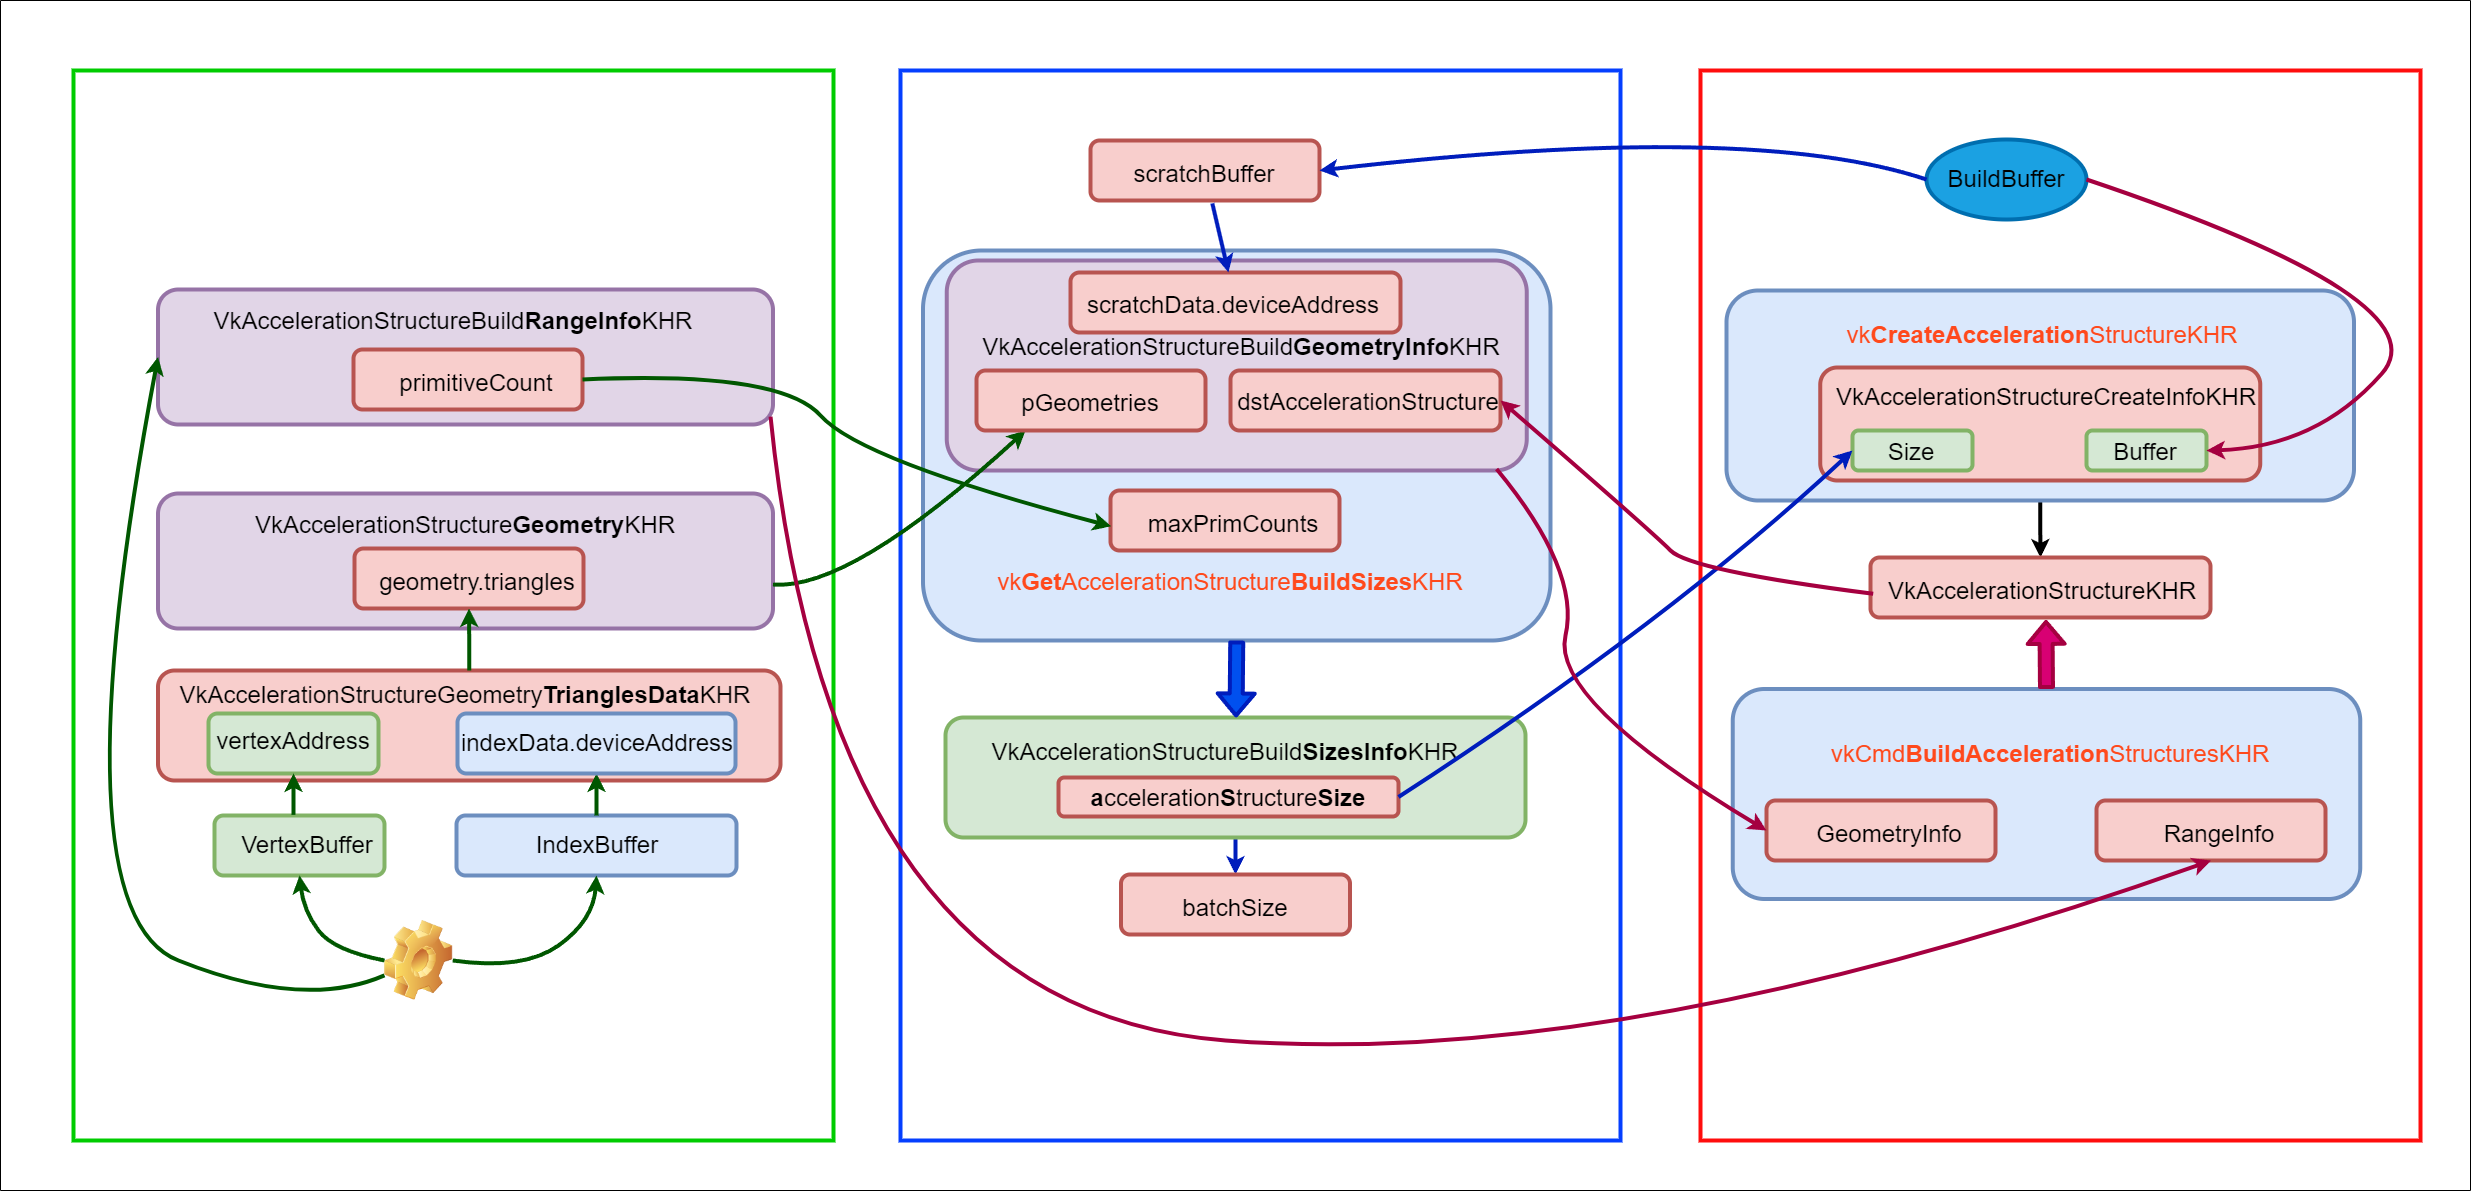
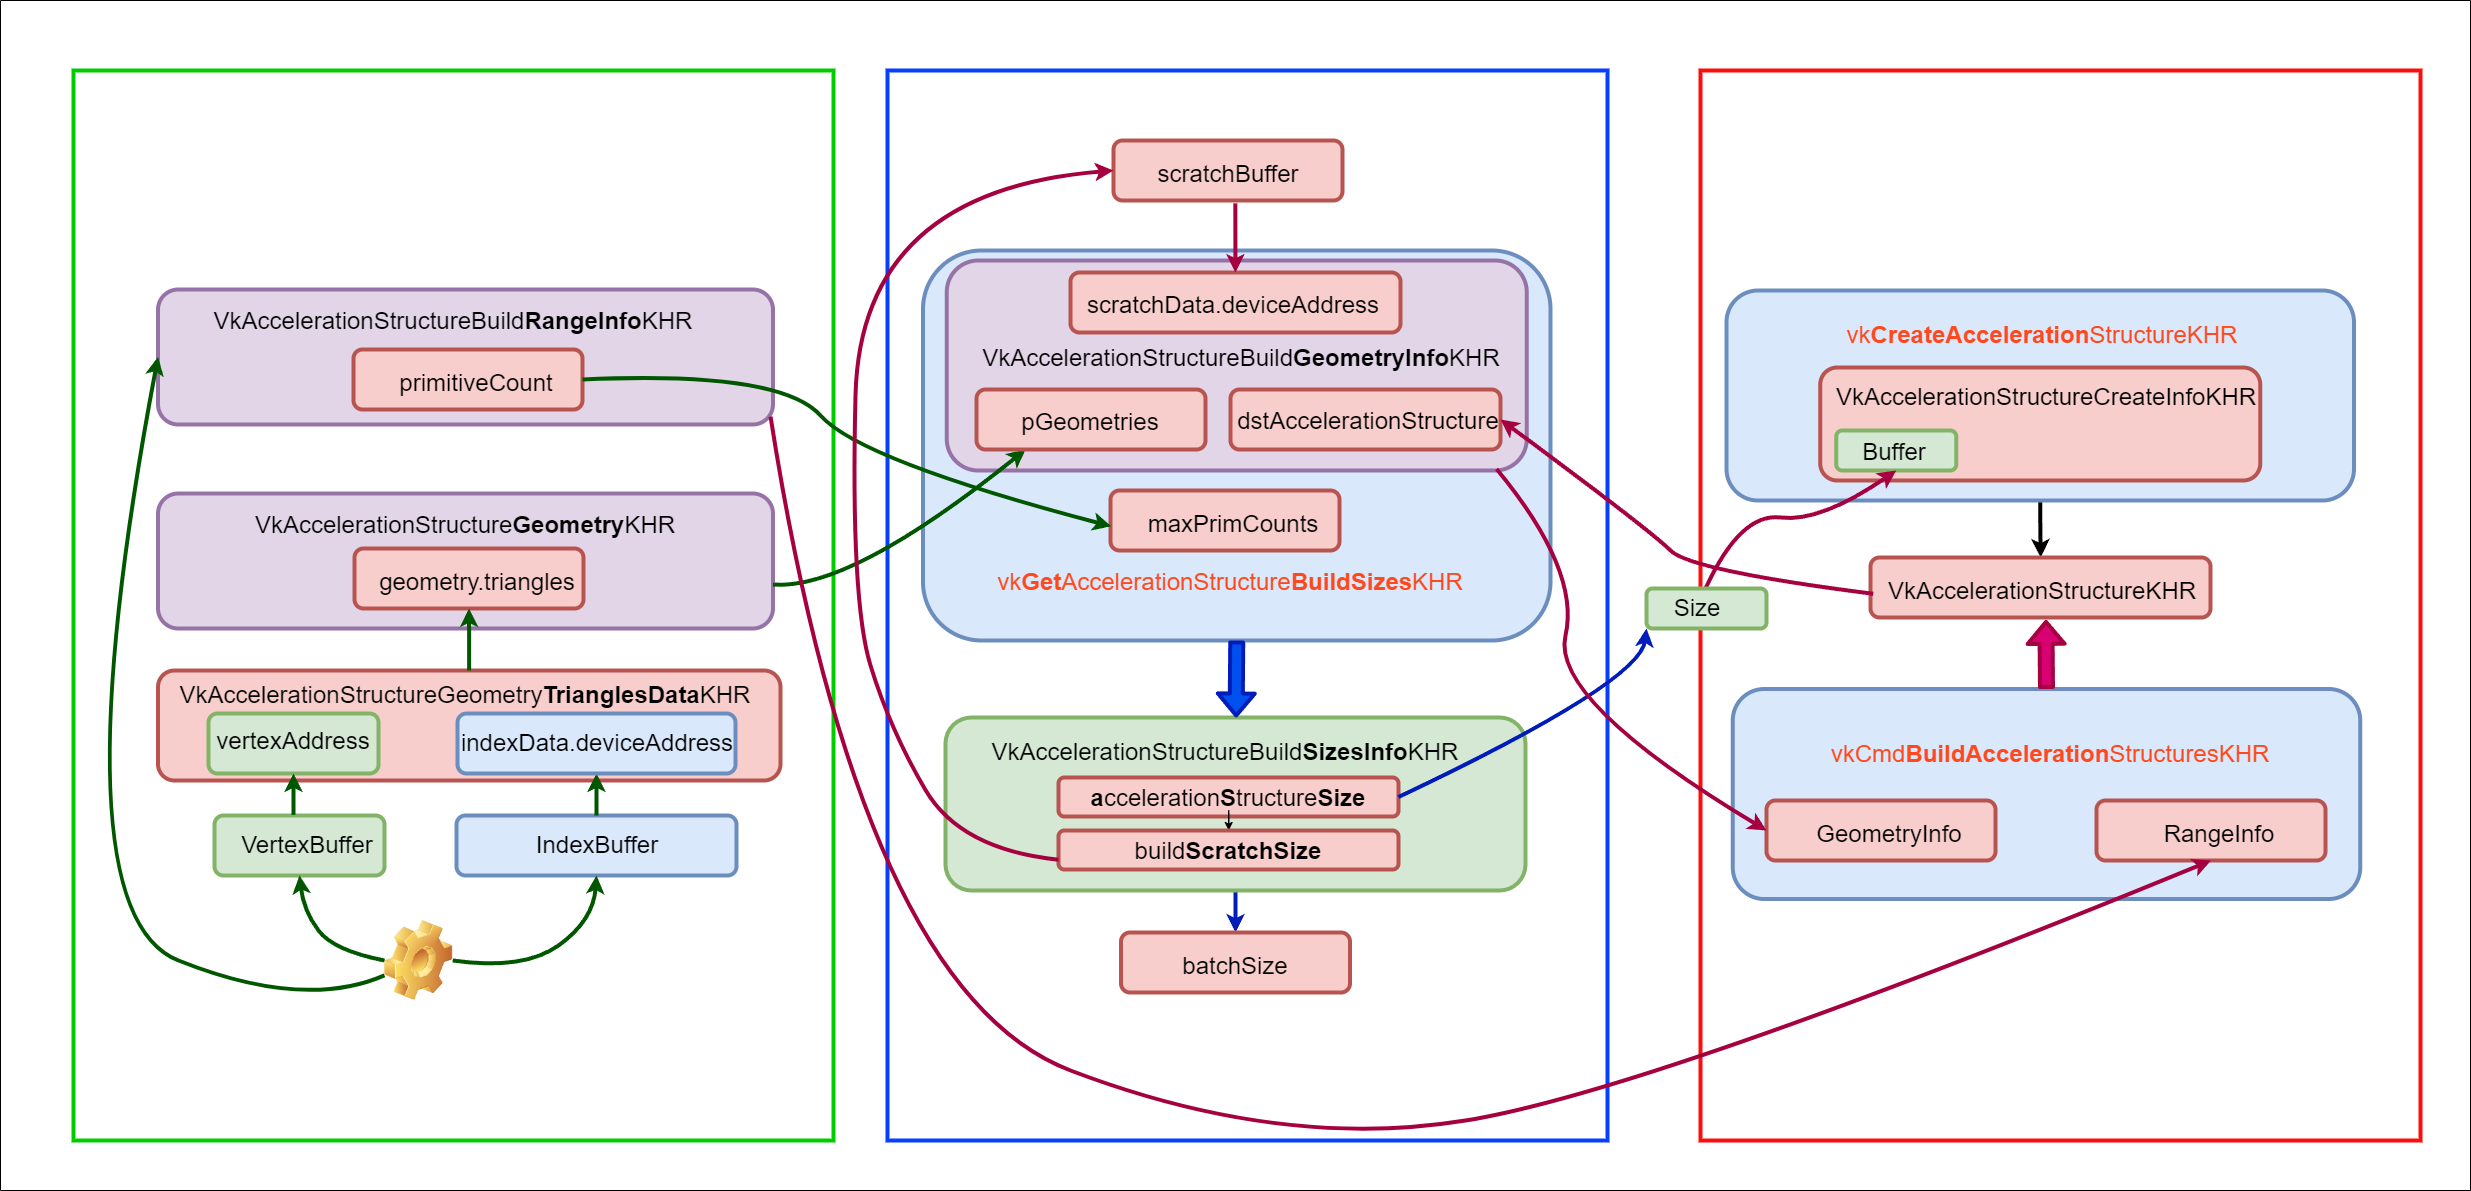
docs:TLAS

diff --git a/Vulkan/vulkanRayTrace.md b/Vulkan/vulkanRayTrace.md
@@ -142,6 +142,30 @@ VkAccelerationStructureInstanceKHR
 
 
 
+#### 总体结构
+
+和BLAS构建方法是一样的，只是底层数据，从triangles变成了instances
+
+![](./images/TLASBUILD.png)
+
+
+
+### vulkan中创建TLAS和BLAS中 sratchBuffer的作用
+
+在构建底层加速结构（BLAS）和顶层加速结构（TLAS）时，Scratch Buffer 用于存储多种中间数据和临时计算结果。这些数据对于构建和优化加速结构至关重要，尽管 Vulkan 规范没有详细列出所有可能的中间数据类型，但我们可以根据加速结构构建的一般过程来理解它们可能包括哪些内容：
+
+1. **分层包围盒（Bounding Box）计算**：在构建 BLAS 时，GPU 需要计算和优化每个几何体的包围盒。对于 TLAS，需要计算实例的包围盒。Scratch Buffer 可以用来存储这些包围盒的中间表示，以及在优化过程中产生的任何临时数据。
+2. **空间分割结构**：加速结构的构建涉及到场景的空间分割，以创建数据结构（如 BVH - 边界体积层次结构），使得射线与场景交互时能高效地定位潜在相交的几何体。Scratch Buffer 可用于存储分割过程中产生的节点、分割平面、索引和其他结构化数据。
+3. **排序和重排数据**：为了提高内存访问效率和减少射线遍历加速结构时的计算开销，构建过程可能会对几何体、实例或包围盒进行排序和重排。Scratch Buffer 可能用于存储排序过程中的索引、排序后的元素以及任何用于排序算法的辅助数据。
+4. **优化和修剪**：加速结构构建过程可能包括优化步骤，如修剪不必要的节点或合并接近的节点以减少深度。Scratch Buffer 可用于存储与这些优化步骤相关的中间结果和决策数据。
+5. **并行计算的同步和归约**：构建加速结构是一个高度并行的过程，可能需要进行同步和归约操作（例如，计算所有几何体包围盒的合并）。Scratch Buffer 可用于这些操作的中间数据存储。
+
+**总结**
+
+Scratch Buffer 在加速结构构建过程中**承载了多种中间数据和临时计算结果**，这些数据对于构建高效、优化的加速结构是必不可少的。虽然具体的中间数据类型取决于构建算法的细节，但上述列举的类型给出了一个大致的概念。由于这些数据通常只在构建过程中暂时使用，因此一旦加速结构构建完成，与 Scratch Buffer 相关的资源就可以被释放或用于其他目的。
+
+
+
 ### 关于Query Pool
 
 `Query Pool` 是一种资源，用于**存储和管理**从 **GPU 查询**到的数据。允许应用程序收集关于渲染和计算操作的各种**统计信息和性能度量**。通过使用**查询池**，可以查询如渲染过程中的一些特定事件的发生次数、管线的某些阶段的执行时间，以及其他与性能和调试相关的信息。
